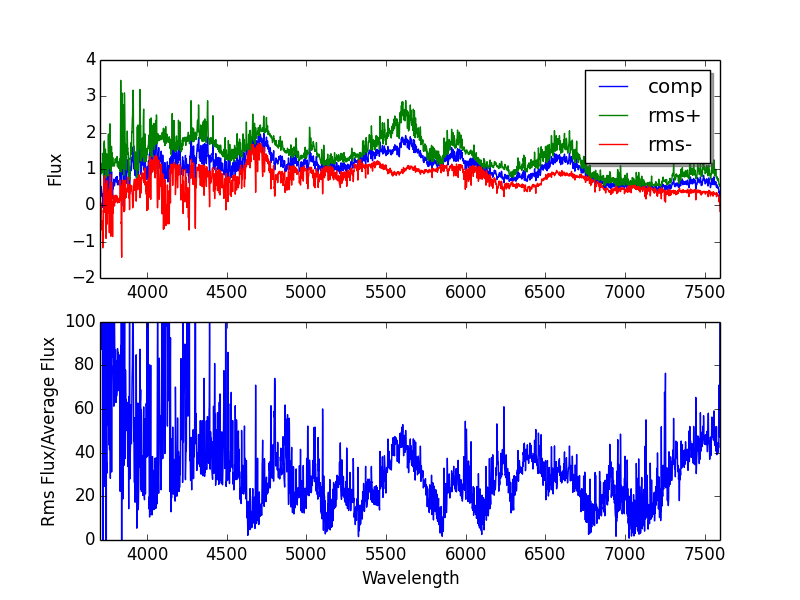
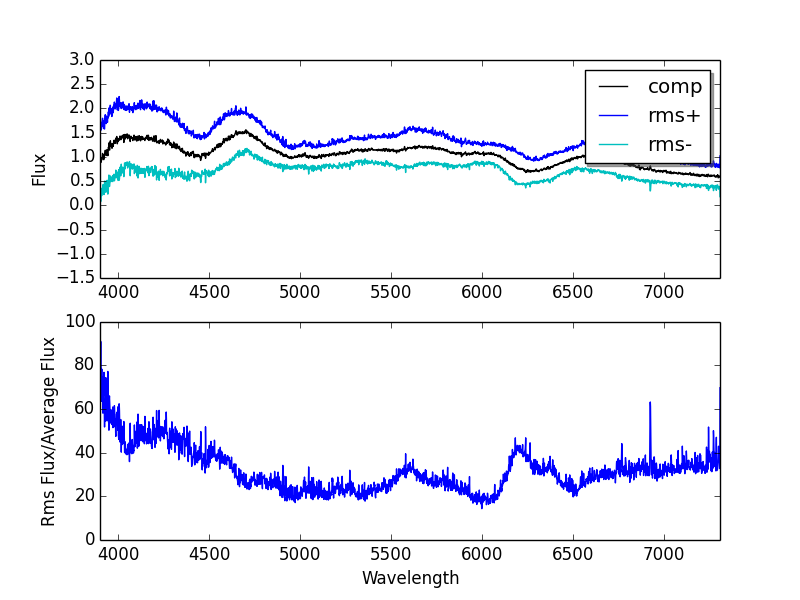
Composite RMS plots of all spectra per host galaxy type

diff --git a/personal/AaronBeaudoin/week4/galaxycomp.py b/personal/AaronBeaudoin/week4/galaxycomp.py
@@ -15,7 +15,7 @@ spectra_arrays=[]
 spectra_names=[]
 bad_files=[]
 
-num=20	#number of spectra to analyse, eventually will be len(spectra_files)
+num=len(spectra_files)	#number of spectra to analyse, eventually will be len(spectra_files)
 
 for i in range(num):
 	spectrum_file=spectra_files[i]
@@ -25,6 +25,7 @@ for i in range(num):
 	except ValueError:
 		bad_files.append(spectra_files[i])
 		
+#classifies each spectra by the type of host galaxy
 host_info=Table.read('../../MalloryConlon/Galaxy/host_info.dat',format='ascii')
 sn_name=host_info["col1"]
 host_type=host_info["col2"]
@@ -44,7 +45,7 @@ for j in range(len(host_info)):
 		irregular.append(sn_name[j])
 	if host_type[j]==0:
 		anon.append(sn_name[j])
-		
+
 sn_elliptical=[]
 for i in range(len(elliptical)):
 	for j in range(len(spectra_arrays)):
@@ -69,6 +70,7 @@ for i in range(len(irregular)):
 		if spectra_names[j] in irregular[i]:
 			sn_irregular.append(spectra_arrays[j])
 
+#finds average flux, RMS, and scatter
 def gal_comp_res(spectra_arrays):
 	#deredshift data
 	parameters = Table.read('../../../data/cfa/cfasnIa_param.dat',format='ascii')
@@ -125,6 +127,7 @@ def gal_comp_res(spectra_arrays):
 	return wavelength, avg_flux, rms_flux, scatter
 
 
+#finds Composite spectrum, RMS spectrum, and scatter for each type of host galaxy
 e_wavelength, e_avg_flux, e_rms_flux, e_scatter = gal_comp_res(sn_elliptical)
 e_wave_min=min(e_wavelength)
 e_wave_max=max(e_wavelength)
@@ -134,18 +137,17 @@ S_wave_max=max(S_wavelength)
 s_wavelength, s_avg_flux, s_rms_flux, s_scatter = gal_comp_res(sn_spiral)
 s_wave_min=min(s_wavelength)
 s_wave_max=max(s_wavelength)
-
-"""
 i_wavelength, i_avg_flux, i_rms_flux, i_scatter = gal_comp_res(sn_irregular)
 i_wave_min=min(i_wavelength)
 i_wave_max=max(i_wavelength)
-"""
 
+
+#Plots spectra based on host galaxy type
 plt.figure(1)
 plt.subplot(211)
-plot1,=plt.plot(e_wavelength,e_avg_flux,label='comp')
-plot2,=plt.plot(e_wavelength,e_avg_flux+e_rms_flux,label='rms+')
-plot3,=plt.plot(e_wavelength,e_avg_flux-e_rms_flux,label='rms-')
+plot1,=plt.plot(e_wavelength,e_avg_flux,label='comp', color='k')
+plot2,=plt.plot(e_wavelength,e_avg_flux+e_rms_flux,label='rms+', color='b')
+plot3,=plt.plot(e_wavelength,e_avg_flux-e_rms_flux,label='rms-', color='c')
 legend=plt.legend(loc='upper right', shadow=True)
 plt.xlim(e_wave_min,e_wave_max)
 plt.ylabel('Flux')
@@ -160,9 +162,9 @@ plt.show()
 
 plt.figure(2)
 plt.subplot(211)
-plot1,=plt.plot(S_wavelength,S_avg_flux,label='comp')
-plot2,=plt.plot(S_wavelength,S_avg_flux+S_rms_flux,label='rms+')
-plot3,=plt.plot(S_wavelength,S_avg_flux-S_rms_flux,label='rms-')
+plot1,=plt.plot(S_wavelength,S_avg_flux,label='comp', color='k')
+plot2,=plt.plot(S_wavelength,S_avg_flux+S_rms_flux,label='rms+', color='b')
+plot3,=plt.plot(S_wavelength,S_avg_flux-S_rms_flux,label='rms-', color='c')
 legend=plt.legend(loc='upper right', shadow=True)
 plt.xlim(S_wave_min,S_wave_max)
 plt.ylabel('Flux')
@@ -177,9 +179,9 @@ plt.show()
 
 plt.figure(3)
 plt.subplot(211)
-plot1,=plt.plot(s_wavelength,s_avg_flux,label='comp')
-plot2,=plt.plot(s_wavelength,s_avg_flux+s_rms_flux,label='rms+')
-plot3,=plt.plot(s_wavelength,s_avg_flux-s_rms_flux,label='rms-')
+plot1,=plt.plot(s_wavelength,s_avg_flux,label='comp', color='k')
+plot2,=plt.plot(s_wavelength,s_avg_flux+s_rms_flux,label='rms+', color='b')
+plot3,=plt.plot(s_wavelength,s_avg_flux-s_rms_flux,label='rms-', color='c')
 legend=plt.legend(loc='upper right', shadow=True)
 plt.xlim(s_wave_min,s_wave_max)
 plt.ylabel('Flux')
@@ -192,12 +194,12 @@ plt.ylabel('Rms Flux/Average Flux')
 plt.savefig('SpiralPlot.png')
 plt.show()
 
-"""
+
 plt.figure(4)
 plt.subplot(211)
-plot1,=plt.plot(i_wavelength,i_avg_flux,label='comp')
-plot2,=plt.plot(i_wavelength,i_avg_flux+i_rms_flux,label='rms+')
-plot3,=plt.plot(i_wavelength,i_avg_flux-i_rms_flux,label='rms-')
+plot1,=plt.plot(i_wavelength,i_avg_flux,label='comp', color='k')
+plot2,=plt.plot(i_wavelength,i_avg_flux+i_rms_flux,label='rms+', color='b')
+plot3,=plt.plot(i_wavelength,i_avg_flux-i_rms_flux,label='rms-', color='c')
 legend=plt.legend(loc='upper right', shadow=True)
 plt.xlim(i_wave_min,i_wave_max)
 plt.ylabel('Flux')
@@ -209,4 +211,3 @@ plt.xlabel('Wavelength')
 plt.ylabel('Rms Flux/Average Flux')
 plt.savefig('IrregularPlot.png')
 plt.show()
-"""
